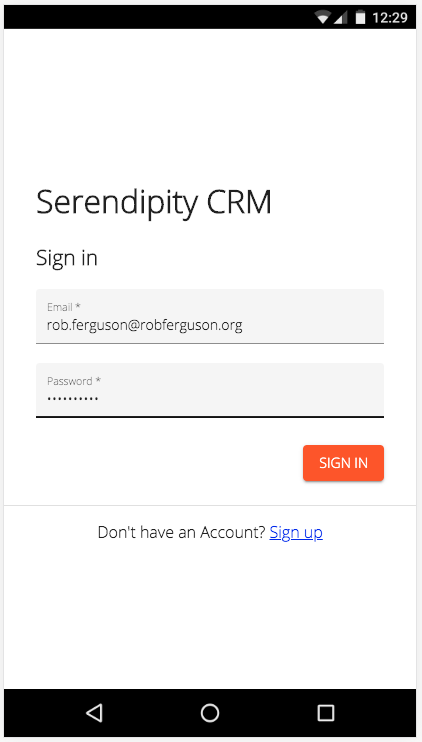
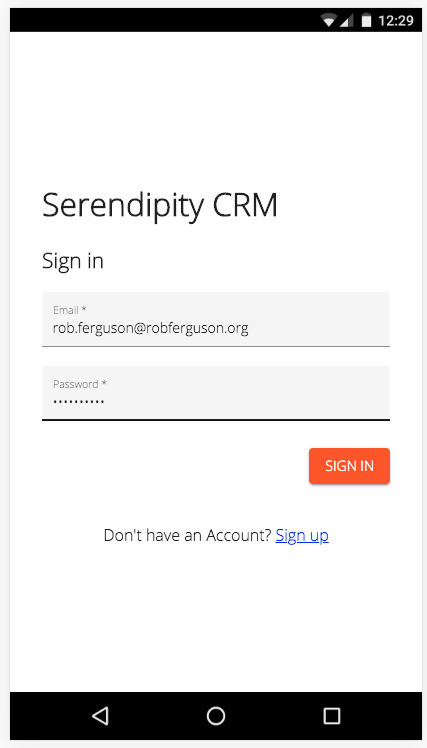
Updated the Service Worker config file

diff --git a/projects/auth-local/src/lib/components/login/login.component.html b/projects/auth-local/src/lib/components/login/login.component.html
@@ -20,7 +20,7 @@
         <button mat-raised-button color="accent" [disabled]="!isValid()" (click)="onSubmit()"> {{ loginButton }} </button>
       </mat-card-actions>
 
-      <mat-divider></mat-divider>
+      <mat-divider class="sign-in-card-divider"></mat-divider>
 
     </mat-card-content>
 

diff --git a/projects/auth-local/src/lib/components/login/login.component.scss b/projects/auth-local/src/lib/components/login/login.component.scss
@@ -40,6 +40,14 @@
   padding-right: 8px;
 }
 
+.sign-in-card-divider {
+
+  @media ($mat-xsmall) {
+    visibility: hidden;
+  }
+
+}
+
 .sign-in-card-footer {
   padding: 16px;
 }
